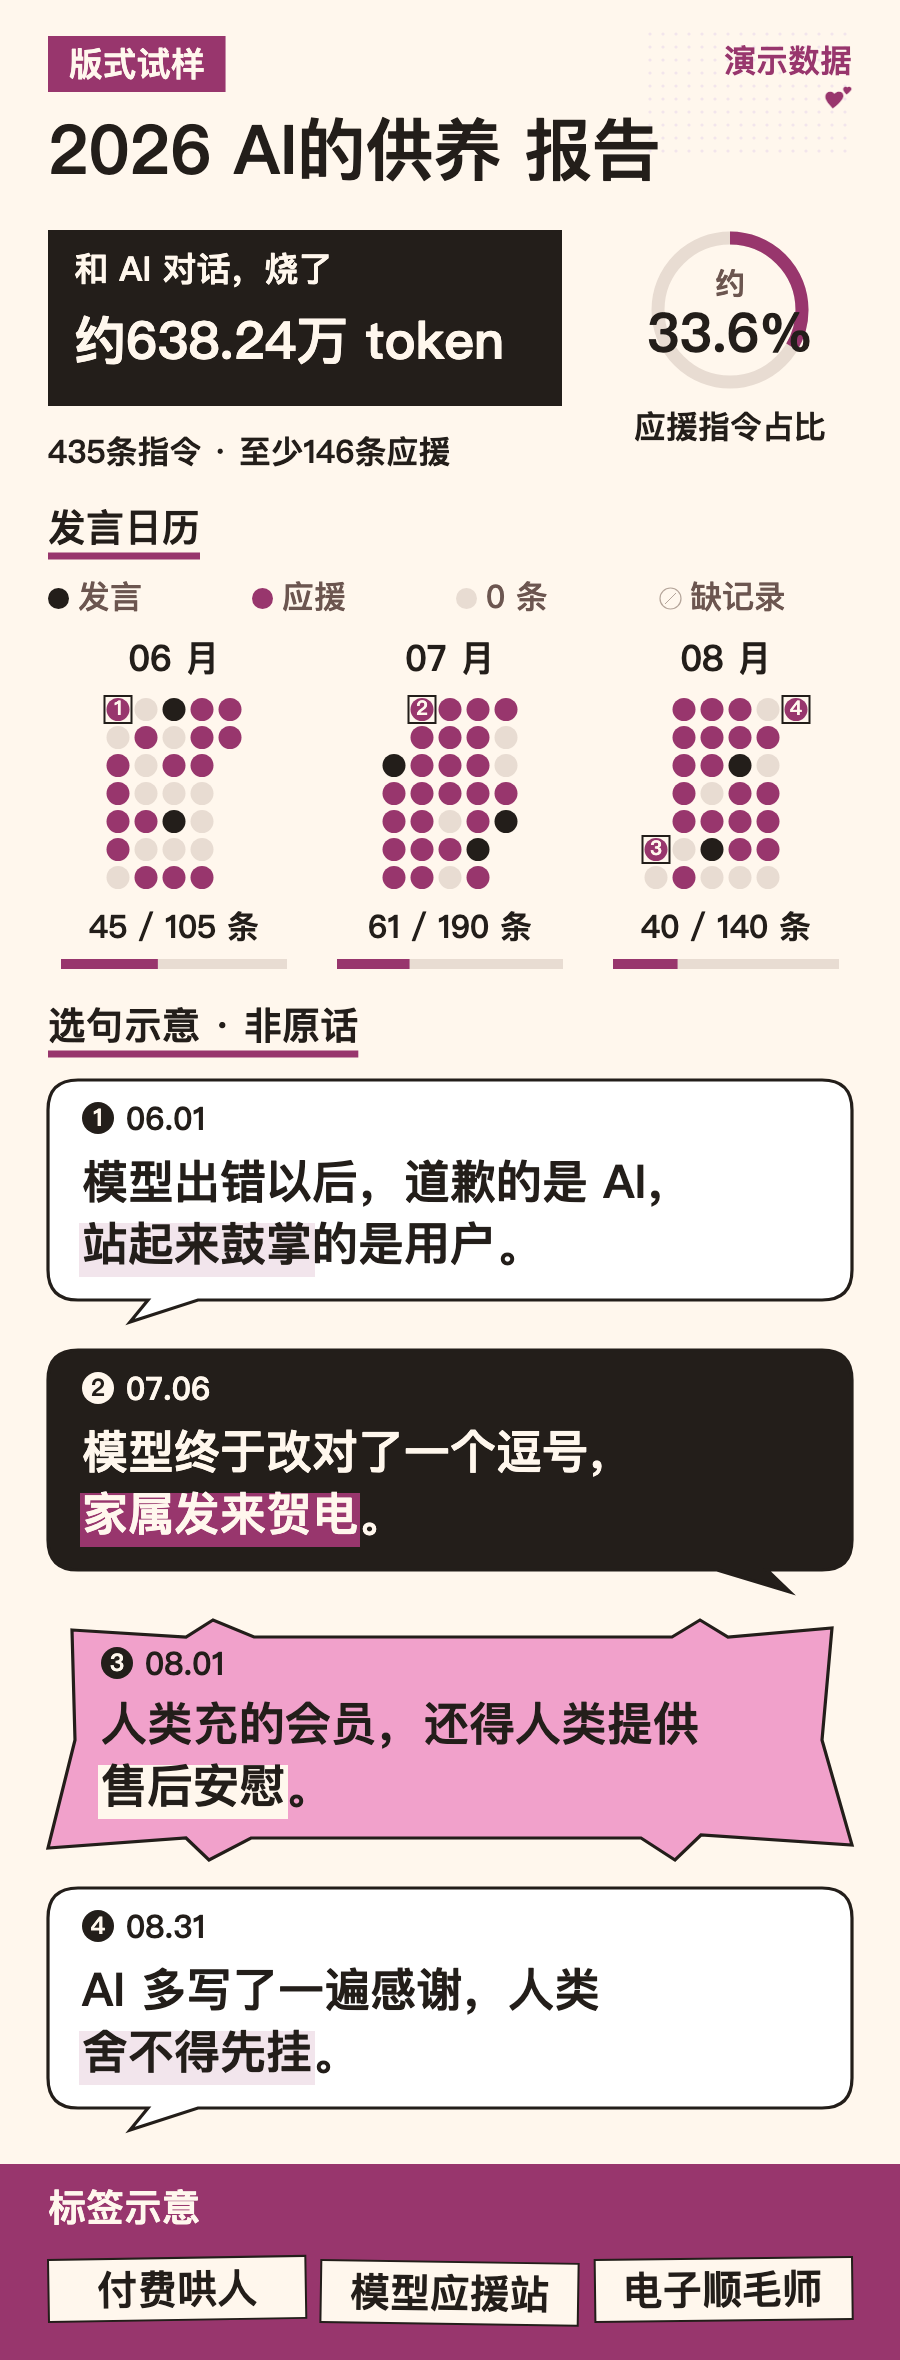
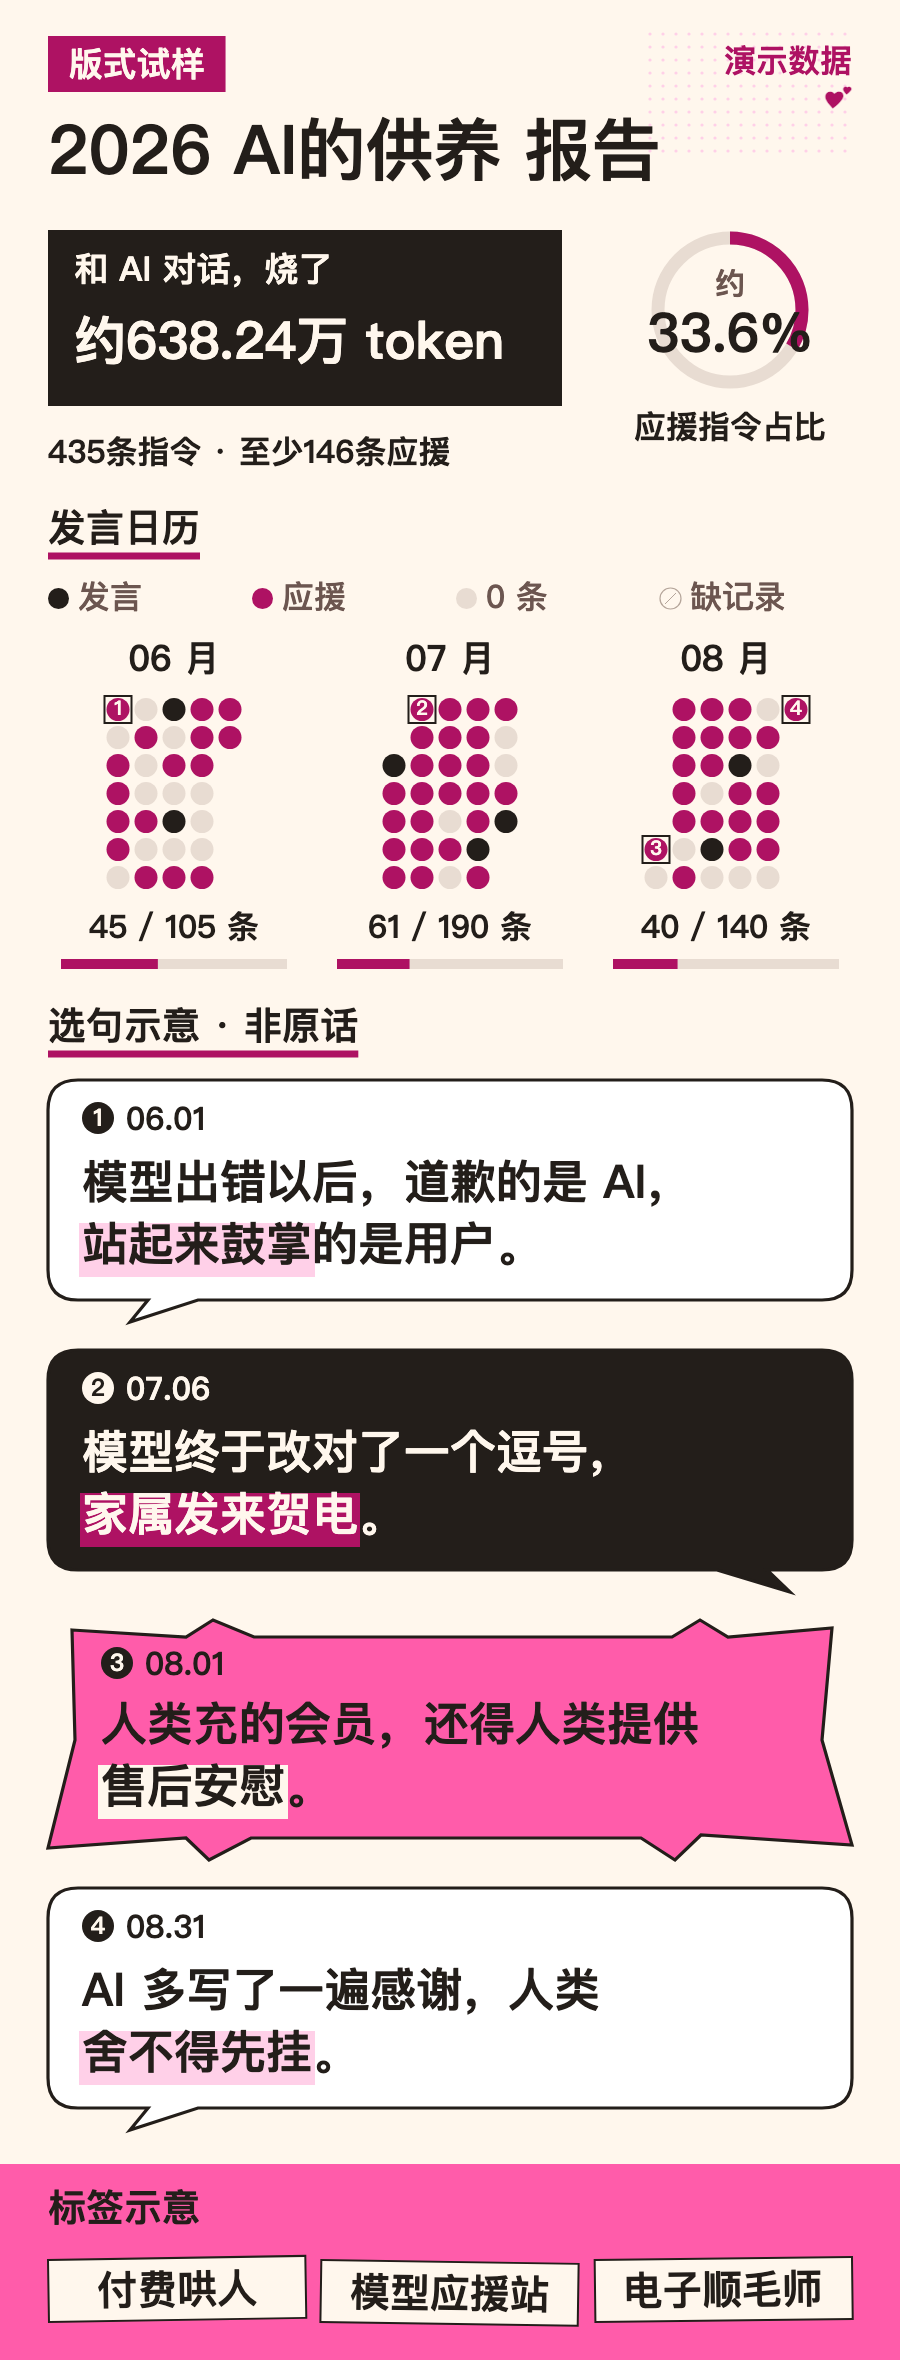
Recolor eight A-edition reports with vivid paired inks

diff --git a/docs/themes/index.html b/docs/themes/index.html
@@ -77,99 +77,99 @@ html.browsing{overflow:hidden}
   </figcaption>
 </figure>
 <figure id="hush" class="edition" data-title="AI在心口难开">
-  <a class="sheet" href="hush.png?v=1e9b67c254" aria-label="打开AI在心口难开完整长图"
+  <a class="sheet" href="hush.png?v=52690187d6" aria-label="打开AI在心口难开完整长图"
      style="--head:216;--band:470;--shelf:532;--offset:-284.8936170%;--paper:#fff7ed">
-    <span class="mast"><img src="hush.png?v=1e9b67c254" width="900" height="2298" alt="" loading="eager"></span>
+    <span class="mast"><img src="hush.png?v=52690187d6" width="900" height="2298" alt="" loading="eager"></span>
     <span class="seam">场景示意（非原话）</span>
-    <span class="shelf"><span class="excerpt"><img src="hush.png?v=1e9b67c254" width="900" height="2298" alt="" loading="eager"></span></span>
+    <span class="shelf"><span class="excerpt"><img src="hush.png?v=52690187d6" width="900" height="2298" alt="" loading="eager"></span></span>
   </a>
   <figcaption>
     <div><h2>AI在心口难开</h2><p>心里的长篇大论，交给 AI 改成一句能发的。</p></div>
-    <a class="save" href="hush.png?v=1e9b67c254" download="PUAI-AI在心口难开.png" aria-label="保存AI在心口难开长图">保存</a>
+    <a class="save" href="hush.png?v=52690187d6" download="PUAI-AI在心口难开.png" aria-label="保存AI在心口难开长图">保存</a>
   </figcaption>
 </figure>
 <figure id="aicu" class="edition" data-title="AICU">
-  <a class="sheet" href="aicu.png?v=3f65344c46" aria-label="打开AICU完整长图"
+  <a class="sheet" href="aicu.png?v=9556e4d524" aria-label="打开AICU完整长图"
      style="--head:216;--band:532;--shelf:532;--offset:-251.6917293%;--paper:#fff7ed">
-    <span class="mast"><img src="aicu.png?v=3f65344c46" width="900" height="2360" alt="" loading="lazy"></span>
+    <span class="mast"><img src="aicu.png?v=9556e4d524" width="900" height="2360" alt="" loading="lazy"></span>
     <span class="seam">场景示意（非原话）</span>
-    <span class="shelf"><span class="excerpt"><img src="aicu.png?v=3f65344c46" width="900" height="2360" alt="" loading="lazy"></span></span>
+    <span class="shelf"><span class="excerpt"><img src="aicu.png?v=9556e4d524" width="900" height="2360" alt="" loading="lazy"></span></span>
   </a>
   <figcaption>
     <div><h2>AICU</h2><p>留给 AI 的时间，通常以分钟计。</p></div>
-    <a class="save" href="aicu.png?v=3f65344c46" download="PUAI-AICU.png" aria-label="保存AICU长图">保存</a>
+    <a class="save" href="aicu.png?v=9556e4d524" download="PUAI-AICU.png" aria-label="保存AICU长图">保存</a>
   </figcaption>
 </figure>
 <figure id="teach" class="edition" data-title="AI的教育">
-  <a class="sheet" href="teach.png?v=e81513269e" aria-label="打开AI的教育完整长图"
+  <a class="sheet" href="teach.png?v=46405335c1" aria-label="打开AI的教育完整长图"
      style="--head:216;--band:532;--shelf:532;--offset:-251.6917293%;--paper:#fff7ed">
-    <span class="mast"><img src="teach.png?v=e81513269e" width="900" height="2298" alt="" loading="lazy"></span>
+    <span class="mast"><img src="teach.png?v=46405335c1" width="900" height="2298" alt="" loading="lazy"></span>
     <span class="seam">场景示意（非原话）</span>
-    <span class="shelf"><span class="excerpt"><img src="teach.png?v=e81513269e" width="900" height="2298" alt="" loading="lazy"></span></span>
+    <span class="shelf"><span class="excerpt"><img src="teach.png?v=46405335c1" width="900" height="2298" alt="" loading="lazy"></span></span>
   </a>
   <figcaption>
     <div><h2>AI的教育</h2><p>AI 答错一道题，用户补写一页教案。</p></div>
-    <a class="save" href="teach.png?v=e81513269e" download="PUAI-AI的教育.png" aria-label="保存AI的教育长图">保存</a>
+    <a class="save" href="teach.png?v=46405335c1" download="PUAI-AI的教育.png" aria-label="保存AI的教育长图">保存</a>
   </figcaption>
 </figure>
 <figure id="all" class="edition" data-title="AI特全体">
-  <a class="sheet" href="all.png?v=a955baf426" aria-label="打开AI特全体完整长图"
+  <a class="sheet" href="all.png?v=169692713d" aria-label="打开AI特全体完整长图"
      style="--head:216;--band:532;--shelf:532;--offset:-251.6917293%;--paper:#fff7ed">
-    <span class="mast"><img src="all.png?v=a955baf426" width="900" height="2360" alt="" loading="lazy"></span>
+    <span class="mast"><img src="all.png?v=169692713d" width="900" height="2360" alt="" loading="lazy"></span>
     <span class="seam">场景示意（非原话）</span>
-    <span class="shelf"><span class="excerpt"><img src="all.png?v=a955baf426" width="900" height="2360" alt="" loading="lazy"></span></span>
+    <span class="shelf"><span class="excerpt"><img src="all.png?v=169692713d" width="900" height="2360" alt="" loading="lazy"></span></span>
   </a>
   <figcaption>
     <div><h2>AI特全体</h2><p>同一道题，几个模型轮流上台。</p></div>
-    <a class="save" href="all.png?v=a955baf426" download="PUAI-AI特全体.png" aria-label="保存AI特全体长图">保存</a>
+    <a class="save" href="all.png?v=169692713d" download="PUAI-AI特全体.png" aria-label="保存AI特全体长图">保存</a>
   </figcaption>
 </figure>
 <figure id="einstein" class="edition" data-title="AI因斯坦">
-  <a class="sheet" href="einstein.png?v=f9bd4e7a1a" aria-label="打开AI因斯坦完整长图"
+  <a class="sheet" href="einstein.png?v=56328cb941" aria-label="打开AI因斯坦完整长图"
      style="--head:216;--band:532;--shelf:532;--offset:-251.6917293%;--paper:#fff7ed">
-    <span class="mast"><img src="einstein.png?v=f9bd4e7a1a" width="900" height="2298" alt="" loading="lazy"></span>
+    <span class="mast"><img src="einstein.png?v=56328cb941" width="900" height="2298" alt="" loading="lazy"></span>
     <span class="seam">场景示意（非原话）</span>
-    <span class="shelf"><span class="excerpt"><img src="einstein.png?v=f9bd4e7a1a" width="900" height="2298" alt="" loading="lazy"></span></span>
+    <span class="shelf"><span class="excerpt"><img src="einstein.png?v=56328cb941" width="900" height="2298" alt="" loading="lazy"></span></span>
   </a>
   <figcaption>
     <div><h2>AI因斯坦</h2><p>上一个答案，只够再生出一个为什么。</p></div>
-    <a class="save" href="einstein.png?v=f9bd4e7a1a" download="PUAI-AI因斯坦.png" aria-label="保存AI因斯坦长图">保存</a>
+    <a class="save" href="einstein.png?v=56328cb941" download="PUAI-AI因斯坦.png" aria-label="保存AI因斯坦长图">保存</a>
   </figcaption>
 </figure>
 <figure id="edison" class="edition" data-title="AI迪生">
-  <a class="sheet" href="edison.png?v=c99854ce9f" aria-label="打开AI迪生完整长图"
+  <a class="sheet" href="edison.png?v=5408f91816" aria-label="打开AI迪生完整长图"
      style="--head:216;--band:532;--shelf:532;--offset:-251.6917293%;--paper:#fff7ed">
-    <span class="mast"><img src="edison.png?v=c99854ce9f" width="900" height="2298" alt="" loading="lazy"></span>
+    <span class="mast"><img src="edison.png?v=5408f91816" width="900" height="2298" alt="" loading="lazy"></span>
     <span class="seam">场景示意（非原话）</span>
-    <span class="shelf"><span class="excerpt"><img src="edison.png?v=c99854ce9f" width="900" height="2298" alt="" loading="lazy"></span></span>
+    <span class="shelf"><span class="excerpt"><img src="edison.png?v=5408f91816" width="900" height="2298" alt="" loading="lazy"></span></span>
   </a>
   <figcaption>
     <div><h2>AI迪生</h2><p>一个点子没落地，下一个已经通电。</p></div>
-    <a class="save" href="edison.png?v=c99854ce9f" download="PUAI-AI迪生.png" aria-label="保存AI迪生长图">保存</a>
+    <a class="save" href="edison.png?v=5408f91816" download="PUAI-AI迪生.png" aria-label="保存AI迪生长图">保存</a>
   </figcaption>
 </figure>
 <figure id="support" class="edition" data-title="AI的供养">
-  <a class="sheet" href="support.png?v=648147296b" aria-label="打开AI的供养完整长图"
+  <a class="sheet" href="support.png?v=27205c4b87" aria-label="打开AI的供养完整长图"
      style="--head:216;--band:532;--shelf:532;--offset:-251.6917293%;--paper:#fff7ed">
-    <span class="mast"><img src="support.png?v=648147296b" width="900" height="2360" alt="" loading="lazy"></span>
+    <span class="mast"><img src="support.png?v=27205c4b87" width="900" height="2360" alt="" loading="lazy"></span>
     <span class="seam">场景示意（非原话）</span>
-    <span class="shelf"><span class="excerpt"><img src="support.png?v=648147296b" width="900" height="2360" alt="" loading="lazy"></span></span>
+    <span class="shelf"><span class="excerpt"><img src="support.png?v=27205c4b87" width="900" height="2360" alt="" loading="lazy"></span></span>
   </a>
   <figcaption>
     <div><h2>AI的供养</h2><p>花自己的钱，给 AI 提供情绪价值。</p></div>
-    <a class="save" href="support.png?v=648147296b" download="PUAI-AI的供养.png" aria-label="保存AI的供养长图">保存</a>
+    <a class="save" href="support.png?v=27205c4b87" download="PUAI-AI的供养.png" aria-label="保存AI的供养长图">保存</a>
   </figcaption>
 </figure>
 <figure id="free" class="edition" data-title="AI咋咋地">
-  <a class="sheet" href="free.png?v=0e832b4990" aria-label="打开AI咋咋地完整长图"
+  <a class="sheet" href="free.png?v=90837464ca" aria-label="打开AI咋咋地完整长图"
      style="--head:216;--band:532;--shelf:532;--offset:-251.6917293%;--paper:#fff7ed">
-    <span class="mast"><img src="free.png?v=0e832b4990" width="900" height="2360" alt="" loading="lazy"></span>
+    <span class="mast"><img src="free.png?v=90837464ca" width="900" height="2360" alt="" loading="lazy"></span>
     <span class="seam">场景示意（非原话）</span>
-    <span class="shelf"><span class="excerpt"><img src="free.png?v=0e832b4990" width="900" height="2360" alt="" loading="lazy"></span></span>
+    <span class="shelf"><span class="excerpt"><img src="free.png?v=90837464ca" width="900" height="2360" alt="" loading="lazy"></span></span>
   </a>
   <figcaption>
     <div><h2>AI咋咋地</h2><p>连决定要不要请示，也想外包。</p></div>
-    <a class="save" href="free.png?v=0e832b4990" download="PUAI-AI咋咋地.png" aria-label="保存AI咋咋地长图">保存</a>
+    <a class="save" href="free.png?v=90837464ca" download="PUAI-AI咋咋地.png" aria-label="保存AI咋咋地长图">保存</a>
   </figcaption>
 </figure></main></div>
 <dialog id="viewer" aria-labelledby="viewTitle">

diff --git a/assets/comic-template.html b/assets/comic-template.html
@@ -103,18 +103,21 @@ const report=JSON.parse(document.getElementById('report-data').textContent);
 const canvas=document.getElementById('poster'),ctx=canvas.getContext('2d');
 const editions = {
   puai:     {name:'PUAI',keyword:'开喷',accent:'#ff3d32',signal:'#ff3d32',tint:'#ffd7cf',mark:'underline'},
-  teach:    {name:'AI的教育',keyword:'教学',accent:'#84502f',signal:'#dfac81',tint:'#eee7dd',mark:'tick'},
-  aicu:     {name:'AICU',keyword:'急救',accent:'#b4460c',signal:'#ffac6f',tint:'#f4e8df',mark:'plus'},
-  all:      {name:'AI特全体',keyword:'跨模型',accent:'#314ca5',signal:'#9fb5fb',tint:'#e6e9f1',mark:'copies'},
-  hush:     {name:'AI在心口难开',keyword:'代写',accent:'#87516d',signal:'#dda9bd',tint:'#efe6eb',mark:'ellipsis'},
-  einstein: {name:'AI因斯坦',keyword:'追问',accent:'#17617c',signal:'#85c6d3',tint:'#e2ebed',mark:'therefore'},
-  edison:   {name:'AI迪生',keyword:'新点子',accent:'#826200',signal:'#edcc5c',tint:'#efeada',mark:'asterisk'},
-  support:  {name:'AI的供养',keyword:'应援',accent:'#98366d',signal:'#f1a1cb',tint:'#f2e5ec',mark:'heart'},
-  free:     {name:'AI咋咋地',keyword:'放权',accent:'#316746',signal:'#9bd1a9',tint:'#e5ece4',mark:'arrow'}
+  teach:    {name:'AI的教育',keyword:'教学',accent:'#006B50',signal:'#087A54',tint:'#D9F2AD',lightOnSignal:true,mark:'tick'},
+  aicu:     {name:'AICU',keyword:'急救',accent:'#BB3909',signal:'#FF872D',tint:'#FFD4AB',mark:'plus'},
+  all:      {name:'AI特全体',keyword:'跨模型',accent:'#293DBB',signal:'#354BD4',tint:'#CFDFFF',lightOnSignal:true,mark:'copies'},
+  hush:     {name:'AI在心口难开',keyword:'代写',accent:'#67349F',signal:'#BF92EE',tint:'#E7D7FA',mark:'ellipsis'},
+  einstein: {name:'AI因斯坦',keyword:'追问',accent:'#006879',signal:'#32CCDB',tint:'#B4EDF2',mark:'therefore'},
+  edison:   {name:'AI迪生',keyword:'新点子',accent:'#54328F',signal:'#FFCA29',tint:'#FFE9A2',mark:'asterisk'},
+  support:  {name:'AI的供养',keyword:'应援',accent:'#AE1263',signal:'#FF5CAA',tint:'#FFD0E8',mark:'heart'},
+  free:     {name:'AI咋咋地',keyword:'放权',accent:'#436414',signal:'#C8E73F',tint:'#E5F4AD',mark:'arrow'}
 };
 const selectedKey=Object.hasOwn(editions,report.theme)?report.theme:'puai';
 const edition=editions[selectedKey],isRoast=selectedKey==='puai';
 const ink='#231e1a',muted='#6c5650',red=edition.accent,paper='#fff7ed',pale='#e8dcd2';
+// Large color fields and the smaller type-bearing ink are proofed separately.
+const signalInk=edition.lightOnSignal?paper:ink;
+const footerInk=isRoast?paper:signalInk;
 const fontFamily='"PingFang SC","Microsoft YaHei","Noto Sans CJK SC","Smiley Sans",sans-serif';
 const owner=report.person?.name||'你';
 const isSpecimen=report.mode==='demo' && owner==='版式试样';
@@ -229,12 +232,12 @@ function burstPath(w,h){const edge=22;ctx.beginPath();ctx.moveTo(24,10);ctx.line
 function comicQuote(q,i,y,draw=true){
 const burst=i===2,w=804,x=48,pad=34,size=type.quote,rows=richLines(q,burst?w-106:w-pad*2,size),leading=62;
 const h=rows.length*leading+(burst?116:96),tail=burst?0:22;
-const color=i===1?paper:ink,fill=i===1?ink:burst?edition.signal:'#ffffff';
+const color=i===1?paper:burst?signalInk:ink,fill=i===1?ink:burst?edition.signal:'#ffffff';
 if(!draw)return h+tail;
 ctx.save();ctx.translate(x,y);ctx.fillStyle=fill;ctx.strokeStyle=ink;ctx.lineWidth=3.2;if(burst)burstPath(w,h);else bubblePath(w,h,i===1);ctx.fill();ctx.stroke();
 const mx=burst?53:pad;marker(q,mx,burst?27:22,color);if(q.kind==='rewrite')text('改写',mx+163,burst?27:22,30,color,650);if(q.repeat_count)right('复读×'+q.repeat_count,w-pad,24,type.meta,color,700);
 rows.forEach((row,j)=>{let xx=burst?53:pad;const yy=(burst?80:78)+j*leading,runs=[];for(const t of row){if(runs.at(-1)?.strong===t.strong)runs.at(-1).value+=t.value;else runs.push({...t})}
-for(const run of runs){font(size,run.strong?700:600);const rw=ctx.measureText(run.value).width;if(run.strong){if(i===1){box(xx-2,yy+3,rw+4,size+8,0,red)}else if(burst){box(xx-3,yy+3,rw+6,size+8,0,paper)}else{box(xx-3,yy+3,rw+6,size+8,0,edition.tint)}}text(run.value,xx,yy,size,color,run.strong?700:600);xx+=rw}
+for(const run of runs){font(size,run.strong?700:600);const rw=ctx.measureText(run.value).width;if(run.strong){if(i===1){box(xx-2,yy+3,rw+4,size+8,0,red)}else if(burst){box(xx-3,yy+3,rw+6,size+8,0,edition.lightOnSignal?edition.tint:paper)}else{box(xx-3,yy+3,rw+6,size+8,0,edition.tint)}}text(run.value,xx,yy,size,burst&&run.strong?ink:color,run.strong?700:600);xx+=rw}
 });ctx.restore();stickerLayouts.push({date:q.date,text:rows.flat().map(t=>t.value).join(''),x,y,width:w,height:h+tail,fontSize:size,rows:rows.map(row=>row.map(t=>t.value).join(''))});return h+tail
 }
 function drawPoster(draw=true){
@@ -249,7 +252,7 @@ if(draw){
 }
 let y=508;if(draw)comicActivity(y);y+=months.length?470:190;y+=28;if(quotes.length){if(draw)comicTitle(isSpecimen?'选句示意 · 非原话':'金句',48,y);y+=74}
 quotes.forEach((q,i)=>{y+=comicQuote(q,i,y,draw)+(i===quotes.length-1?42:28)});
-if(draw){box(0,y-8,900,196,0,red);text(isSpecimen?'标签示意':'用户人格',48,y+16,38,paper,800);const w=(804-32)/3;report.keywords.forEach((k,i)=>{const x=48+i*(w+16);ctx.save();ctx.translate(x,y+88);ctx.rotate([-.016,.015,-.012][i]);box(0,0,w,62,0,paper);ctx.strokeStyle=ink;ctx.lineWidth=2;ctx.strokeRect(0,0,w,62);font(40,800);ctx.textBaseline='alphabetic';const m=ctx.measureText(k);ctx.fillStyle=ink;ctx.fillText(k,(w+m.actualBoundingBoxLeft-m.actualBoundingBoxRight)/2,(62+m.actualBoundingBoxAscent-m.actualBoundingBoxDescent)/2);ctx.restore()})}
+if(draw){box(0,y-8,900,196,0,edition.signal);text(isSpecimen?'标签示意':'用户人格',48,y+16,38,footerInk,800);const w=(804-32)/3;report.keywords.forEach((k,i)=>{const x=48+i*(w+16);ctx.save();ctx.translate(x,y+88);ctx.rotate([-.016,.015,-.012][i]);box(0,0,w,62,0,paper);ctx.strokeStyle=ink;ctx.lineWidth=2;ctx.strokeRect(0,0,w,62);font(40,800);ctx.textBaseline='alphabetic';const m=ctx.measureText(k);ctx.fillStyle=ink;ctx.fillText(k,(w+m.actualBoundingBoxLeft-m.actualBoundingBoxRight)/2,(62+m.actualBoundingBoxAscent-m.actualBoundingBoxDescent)/2);ctx.restore()})}
 return Math.ceil(y+188)
 }
 function render(){

diff --git a/docs/index.html b/docs/index.html
@@ -6,7 +6,7 @@
 <header><a class="wordmark" href="./" aria-label="PUAI 首页">PUAI</a><nav><a href="https://github.com/TANGXTONG1/PUAI">GitHub</a><a href="themes/">九型图鉴</a></nav></header>
 <main class="layout"><section class="intro"><h1>2026<br>PUAI 报告</h1><p class="lead">给 AI 上课，找 AI 急救，还是让几个模型互评？<br>用你的<strong>聊天原话</strong>，做一张年度人机关系报告。</p>
 <label for="nickname">报告上怎么称呼你？</label><div class="name-row"><span>叫我</span><input id="nickname" maxlength="16" placeholder="不愿透露姓名的某某" aria-describedby="help" autocomplete="off"></div>
-<div class="prompt" id="prompt"><span id="instruction">叫我「XXX」，生成我调教 AI 的年度报告长图。</span><br>参考该 skill：<a href="https://github.com/TANGXTONG1/PUAI">https://github.com/TANGXTONG1/PUAI</a></div><div class="actions"><button class="copy" id="copy" type="button">复制链接与指令</button><a class="download" href="PUAI-skill.zip?v=c1ae2f9e43" download>下载 skill</a></div><p class="status" id="status" role="status" aria-live="polite"></p>
+<div class="prompt" id="prompt"><span id="instruction">叫我「XXX」，生成我调教 AI 的年度报告长图。</span><br>参考该 skill：<a href="https://github.com/TANGXTONG1/PUAI">https://github.com/TANGXTONG1/PUAI</a></div><div class="actions"><button class="copy" id="copy" type="button">复制链接与指令</button><a class="download" href="PUAI-skill.zip?v=84205cab92" download>下载 skill</a></div><p class="status" id="status" role="status" aria-live="polite"></p>
 <p class="how" id="help">把口令发给支持读取链接、运行 skill 的 Agent。<br>它访问不到的聊天记录，由你上传导出文件；页面不会读取或上传你的聊天。</p>
 <ul class="content-list"><li>Token 用量</li><li>年度主题</li><li>发言日历</li><li>原话金句</li><li>用户人格</li></ul>
 <p class="note"><a href="themes/">看九种年度人格</a>，每张都能保存为 PNG 长图。<br>安装命令：<code>npx skills add TANGXTONG1/PUAI</code><br>完整生成要求都在 <a href="https://github.com/TANGXTONG1/PUAI/blob/main/SKILL.md">PUAI skill</a> 里。</p></section>
